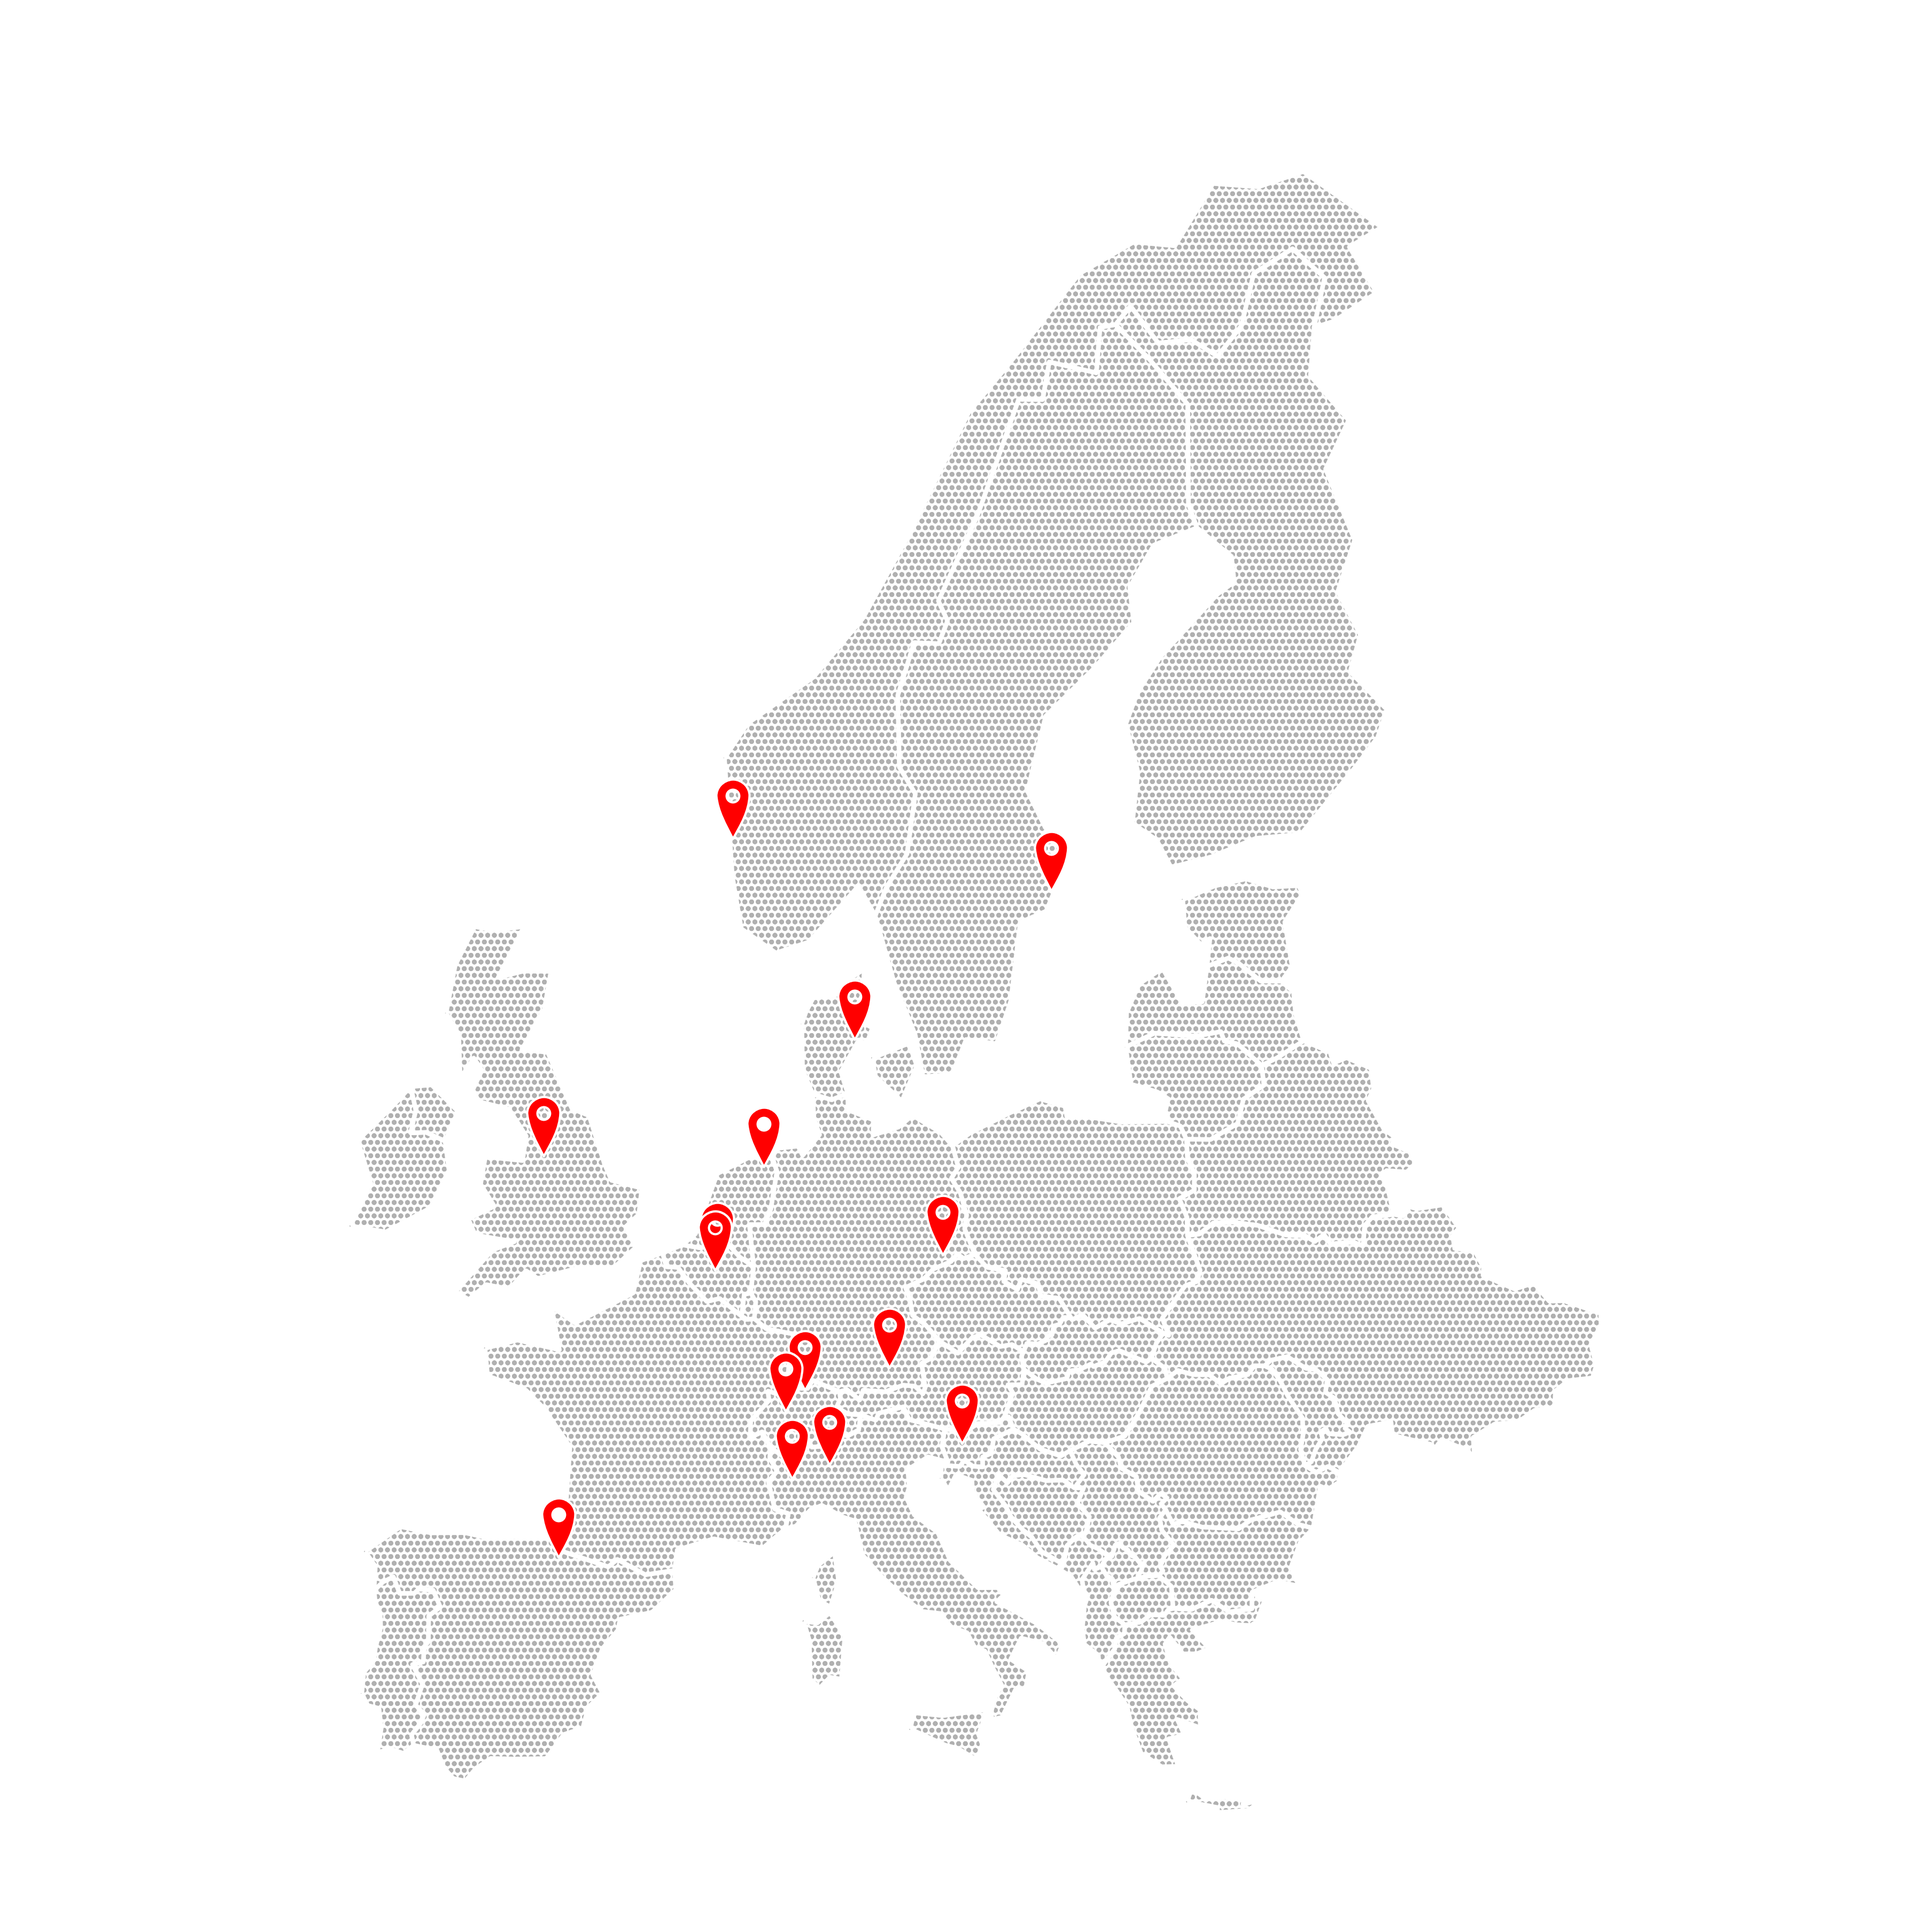
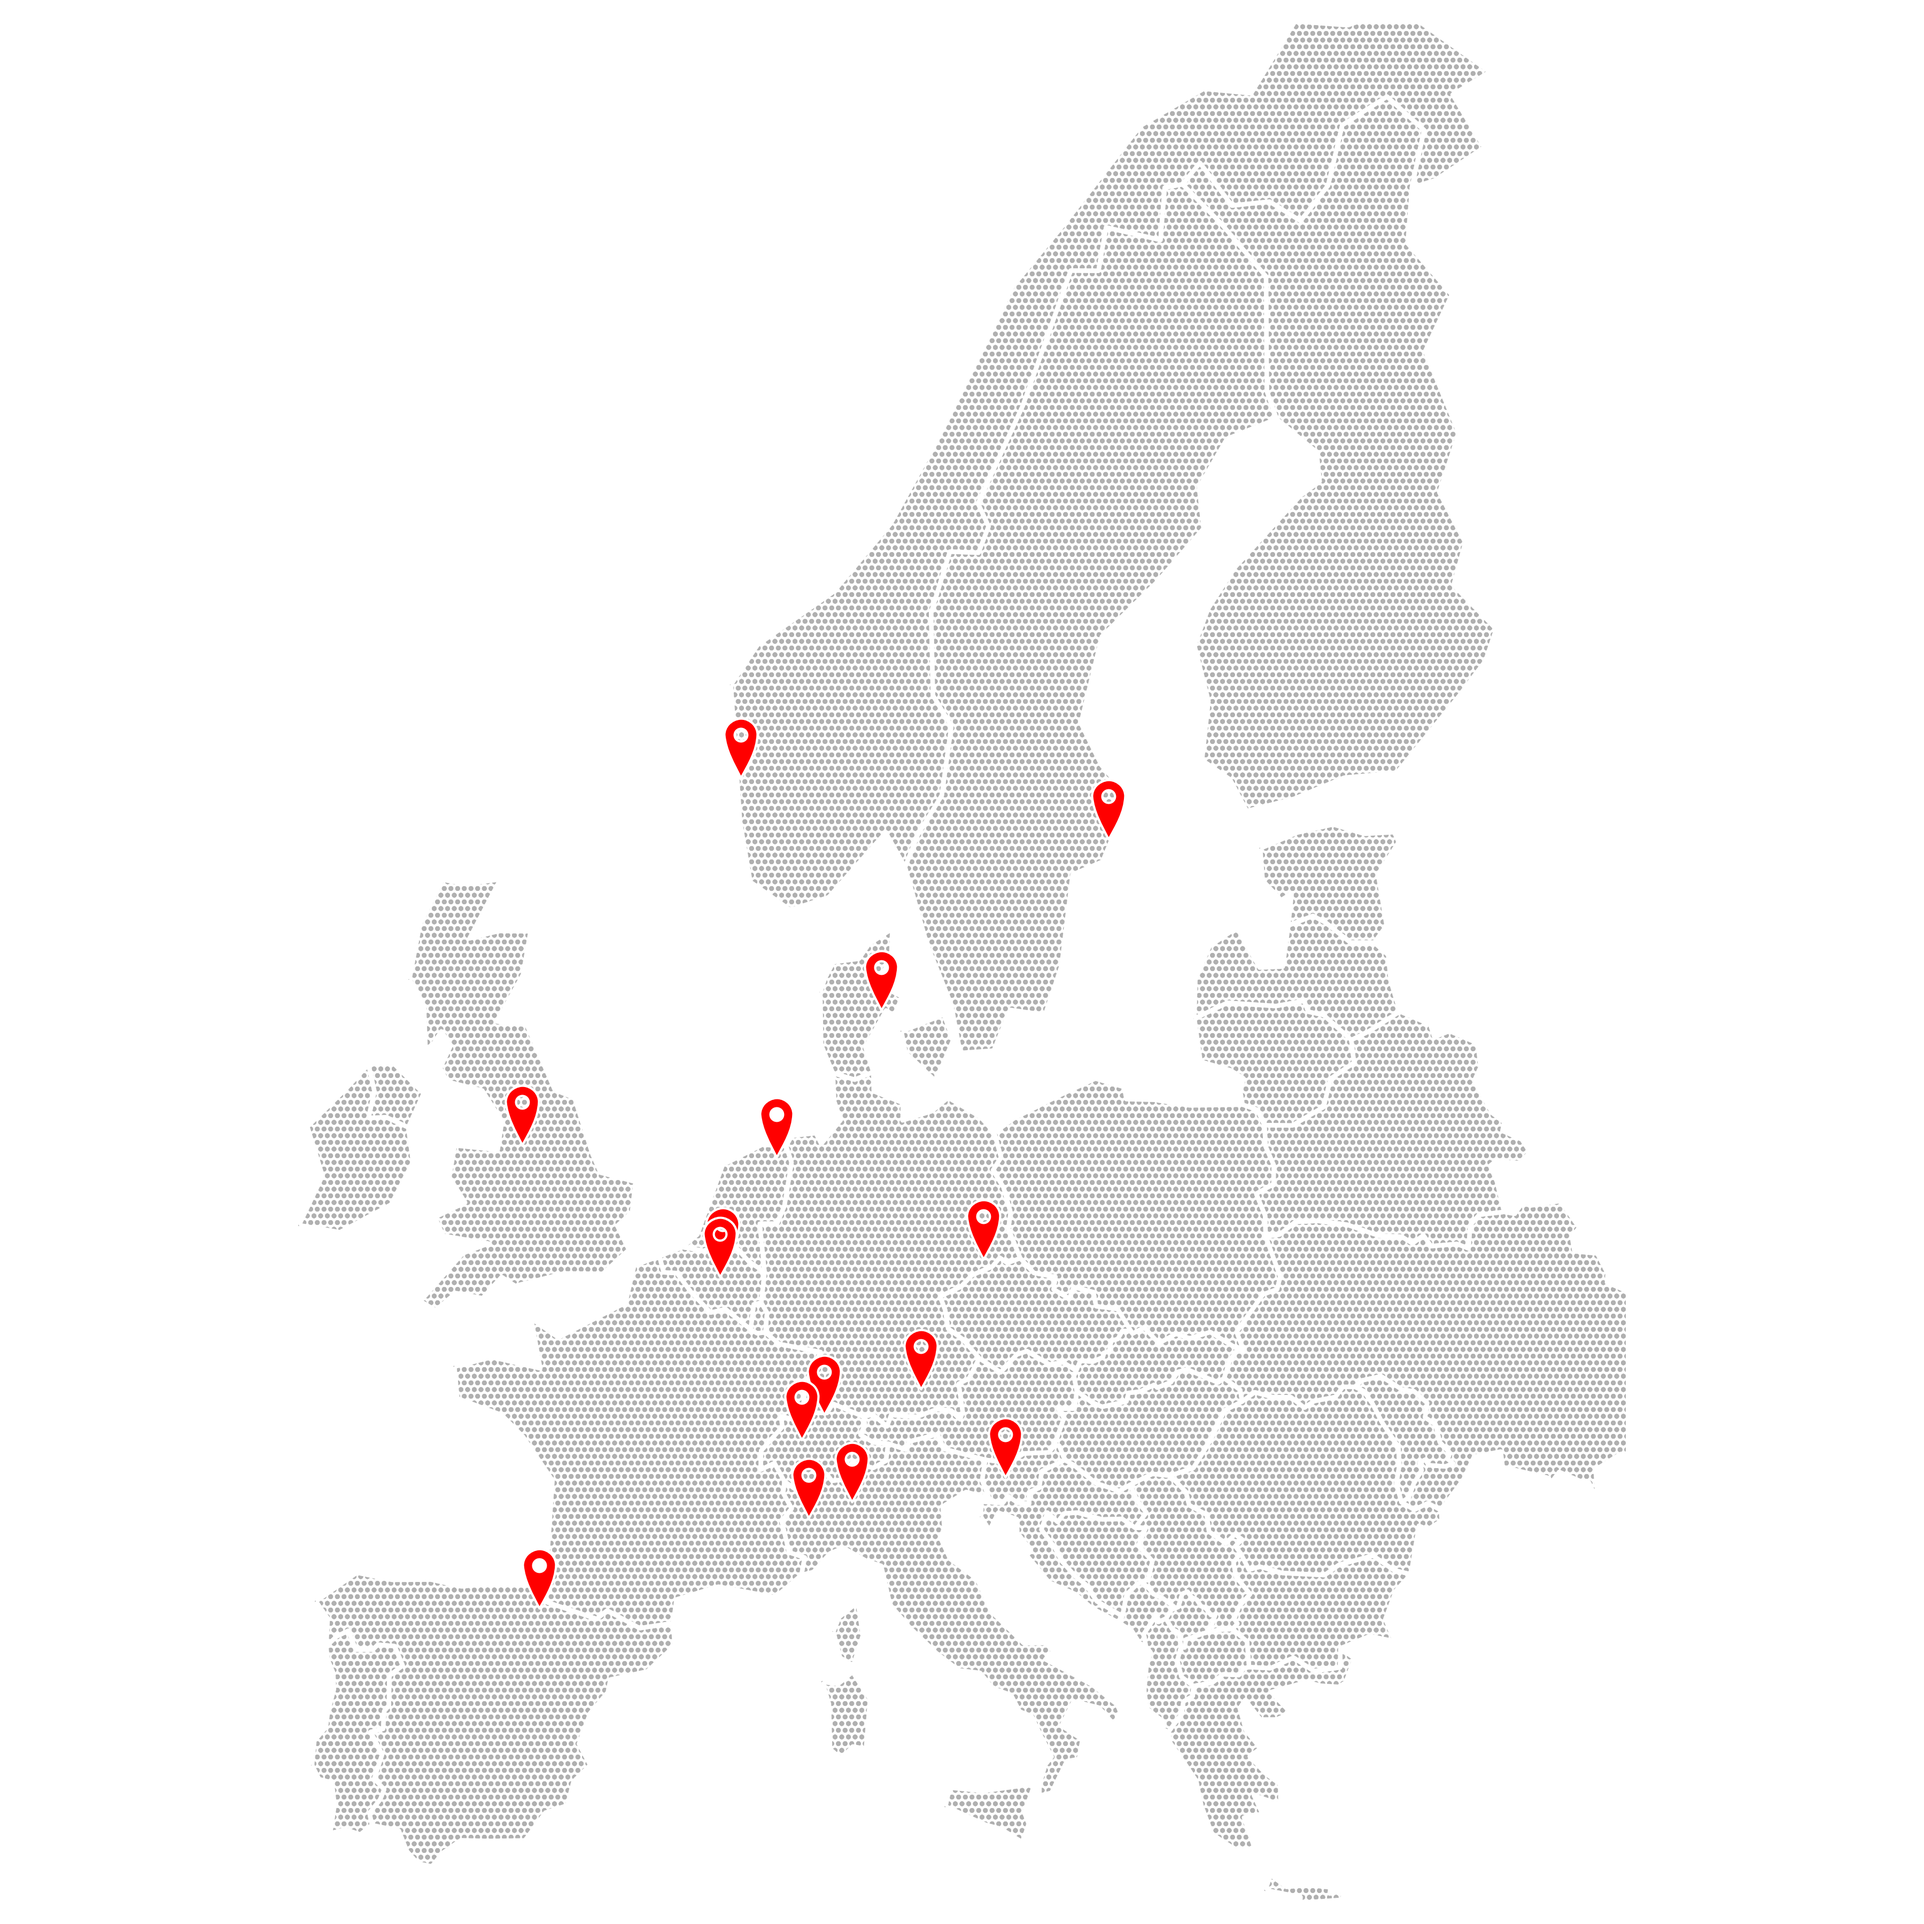
- added associated partners

diff --git a/generate.py b/generate.py
@@ -68,12 +68,37 @@ cities = {
     "Villigen": (47.533333,8.216667),
     "Bern": (46.948056,7.4475)
 }
+
+partners = {
+"Boston": (42.35843, -71.05977),
+"Delft": (52.00667, 4.35556),
+"Wien": (48.20849, 16.37208),
+"Ljubljana": (46.0569, 14.5058),
+"Zürich": (47.36667, 8.55),
+"Erlangen": (49.59099, 11.00783),
+"Darmstadt": (49.87167, 8.65027),
+"München": (48.1351, 11.5820),
+"Stockholm": (59.3293, 18.0686),
+"Pavia": (45.19205, 9.15917),
+"Turin": (45.07049, 7.68682),
+"Heidelberg": (49.40768, 8.69079),
+"Bergen": (60.3913, 5.3221),
+"Trondheim": (63.43049, 10.39506),
+"Villigen": (47.533333, 8.216667),
+"Brüssel": (50.85045, 4.34878)
+}
 city_points = [Point(lon, lat) for lat, lon in cities.values()]
 city_gdf = gpd.GeoDataFrame({'city': list(cities.keys())}, geometry=city_points, crs='EPSG:4326')
+
+partner_city_points = [Point(lon, lat) for lat, lon in partners.values()]
+partner_city_gdf = gpd.GeoDataFrame({'city': list(partners.keys())}, geometry=partner_city_points, crs='EPSG:4326')
+
+
 
 # Projektion: Web Mercator
 europe = europe.to_crs(epsg=3857)
 city_gdf = city_gdf.to_crs(epsg=3857)
+partner_city_gdf = partner_city_gdf.to_crs(epsg=3857)
 
 # Punktwolke in den Ländergrenzen
 xmin, ymin, xmax, ymax = europe.total_bounds
@@ -88,8 +113,8 @@ points = gpd.GeoDataFrame(
 # points = gpd.sjoin(points, europe, how='inner', predicate='within')
 
 # Deine gewünschten Grenzen in WGS84 (Länge/Breite in Grad)
-lon_min, lon_max = -11, 40   # z.B. Westeuropa bis Osteuropa
-lat_min, lat_max = 32, 73    # Südeuropa bis Nordeuropa
+lon_min, lon_max = -10, 36   # z.B. Westeuropa bis Osteuropa
+lat_min, lat_max = 35, 71    # Südeuropa bis Nordeuropa
 
 # Umrechnen in EPSG:3857
 project = pyproj.Transformer.from_crs("EPSG:4326", "EPSG:3857", always_xy=True).transform
@@ -119,9 +144,53 @@ marker = teardrop_from_svg()
 for idx, row in city_gdf.iterrows():
     plt.scatter(row.geometry.x, row.geometry.y, marker=marker, s=3000, zorder=10, color="red", edgecolors="white", linewidths=1)
 
-
 ax.set_axis_off()
 plt.tight_layout()
 # plt.show()
 plt.savefig("europe_map.png", dpi=300, format="png")
+
+
+fig, ax = plt.subplots(figsize=(12, 12))
+# points.plot(ax=ax, color='grey', markersize=0.2, alpha=0.7)
+
+ax.set_xlim([x_min, x_max])
+ax.set_ylim([y_min, y_max])
+
+# hintergrund und landesgrenzen
+europe.plot(ax=ax, 
+            color='white', 
+            hatch="oooo",
+            edgecolor='grey',
+            alpha=0.6,
+            linewidth=1)
+europe.boundary.plot(ax=ax, color='white', linewidth=2)
+
+marker1 = teardrop_marker(scale=10)
+marker = teardrop_from_svg()
+
+# Rote Teardrop Marker für Städte
+for idx, row in partner_city_gdf.iterrows():
+    plt.scatter(row.geometry.x, row.geometry.y, marker=marker, s=3000, zorder=10, color="steelblue", edgecolors="white", linewidths=1)
+
+
+ax.set_axis_off()
+plt.tight_layout()
+# plt.show()
+plt.savefig("europe_map_partners.png", dpi=300, format="png")
+
+
+
+
+fig, ax = plt.subplots(figsize=(12, 12))
+# points.plot(ax=ax, color='grey', markersize=0.2, alpha=0.7)
+ax.set_axis_off()
+
+ax.set_xlim([x_min, x_max])
+ax.set_ylim([y_min, y_max])
+
+
+ax.set_axis_off()
+plt.tight_layout()
+# plt.show()
+plt.savefig("europe_map_pins.png", dpi=300, format="png")
 
